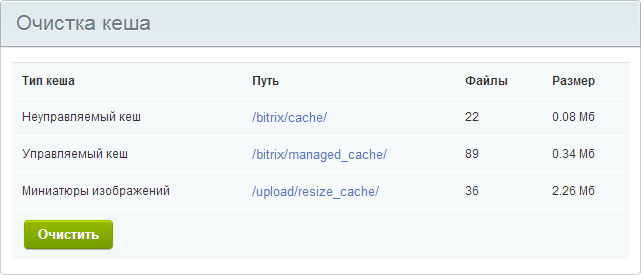
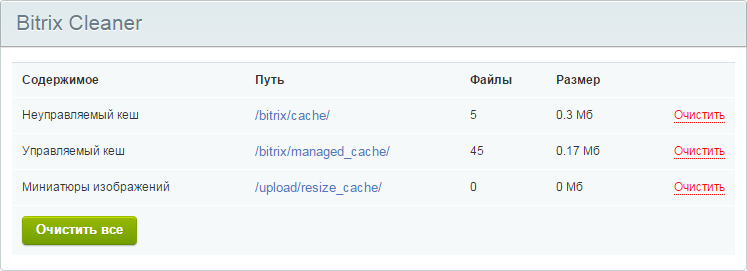
Вторая версия
Ajax, очистка отдельных директорий

diff --git a/cleaner/index.php b/cleaner/index.php
@@ -1,85 +1,40 @@
 <?
 	/*
-		BitrixCacheCleaner v1.3 - https://github.com/creadome/BitrixCacheCleaner
-		Быстрая очистка кеша 1С-Битрикс 		 				
+		Bitrix Cleaner v2.1 - https://github.com/creadome/bitrixcleaner
+		Быстрая очистка 1С-Битрикс 		 				
 
-		(c) 2013 Станислав Васильев - http://creado.me
-		creadome@gmail.com		
+		(c) 2015 Станислав Васильев - http://creado.me
+		creadome@gmail.com
 	*/
 
-	if (!defined("B_PROLOG_INCLUDED") || B_PROLOG_INCLUDED !== true) die();
-	
-	$cache = array(		
-		'Неуправляемый кеш' => '/bitrix/cache/',
-		'Управляемый кеш' => '/bitrix/managed_cache/',
-		'Миниатюры изображений' => '/upload/resize_cache/'
-	);
-	
-	if ($_POST['cache']['clear']) {		
-		foreach ($cache as $dir) DeleteDirFilesEx($dir);	
-				
-		header ('Location: /bitrix/admin/');
-		exit;
-	}
-		
-	function info($dir) {
-		$info = array('count' => 0, 'size' => 0);
-		
-		foreach (scandir($dir) as $file) {
-			if ($file != '.' && $file != '..') {
-				if (is_dir($dir.'/'.$file)) { 
-					$tmp = info($dir.'/'.$file); 
+	if (!defined('B_PROLOG_INCLUDED') || B_PROLOG_INCLUDED !== true) die();
 
-					$info['count'] += $tmp['count']; 
-					$info['size'] += $tmp['size']; 
-				} else { 
-					$info['count']++;
-					$info['size'] += filesize($dir.'/'.$file); 
-				}
-			}
-		}
-		
-		return $info;	
-	}
+	CJSCore::Init('jquery');
 ?>
 
+<div id="bitrix-cleaner"></div>
+
 <style>
-	#gadget-cache { background: #f5f9f9; border-top: 1px solid #d7e0e8; }
-	#gadget-cache table { width: 100%; border-collapse: collapse; }
-	#gadget-cache table th,
-	#gadget-cache table td { vertical-align: top; text-align: left; padding: 10px; border-bottom: 1px solid #fff; }
-	#gadget-cache form { padding: 10px; }
+	#bitrix-cleaner { background: #f5f9f9; border-top: 1px solid #d7e0e8; }
+
+	#bitrix-cleaner table { width: 100%; border-collapse: collapse; }
+	#bitrix-cleaner th,
+	#bitrix-cleaner td { vertical-align: top; text-align: left; padding: 10px; border-bottom: 1px solid #fff; }
+
+	#bitrix-cleaner td.clean { text-align: right; }
+	#bitrix-cleaner td.clean span { color: #f00; border-bottom: 1px dotted #f00; cursor: pointer; }
+
+	#bitrix-cleaner input { margin: 10px; }
 </style>
 
-<div id="gadget-cache">
-	<table>
-		<tr>
-			<th>Тип кеша</th>
-			<th>Путь</th>
-			<th>Файлы</th>
-			<th>Размер</th>
-		</tr>
+<script>
+	var cleaner = '<?=$arGadget['PATH_SITEROOT']?>/cleaner.php';
 
-	<? 
-		foreach ($cache as $name => $dir) { 
-			$info = info($_SERVER['DOCUMENT_ROOT'].$dir);
-			$info['size'] = round($info['size'] / 1024 / 1024, 2);
-	?>	
+	$('#bitrix-cleaner').load(cleaner);
 
-		<tr>
-			<td><?=$name?></td>
-			<td><a href="/bitrix/admin/fileman_admin.php?lang=ru&path=<?=$dir?>"><?=$dir?></a></td>
-			<td><?=$info['count']?></td>
-			<td><?=$info['size']?> Мб</td>
-		</tr>
-
-	<? 
-		} 
-	?>
-
-	</table>
-
-	<form method="post" action="">	
-		<input type="submit" name="cache[clear]" value="Очистить" class="adm-btn-save">		
-	</form>
-</div>
+	$(document).on('click', '#bitrix-cleaner .action-clean', function(){
+		$.get(cleaner, {clean: $(this).data('clean')}, function(data){
+			$('#bitrix-cleaner').html(data);
+		});
+	});
+</script>

diff --git a/cleaner/cleaner.php b/cleaner/cleaner.php
@@ -1,0 +1,80 @@
+<?
+	/*
+		Bitrix Cleaner v2.1 - https://github.com/creadome/bitrixcleaner
+		Быстрая очистка 1С-Битрикс 		 				
+
+		(c) 2015 Станислав Васильев - http://creado.me
+		creadome@gmail.com
+	*/
+
+	require($_SERVER['DOCUMENT_ROOT'].'/bitrix/modules/main/include/prolog_before.php');
+	
+	if ($USER->IsAdmin()) {
+		$list = array(
+			'/bitrix/cache/' => 'Неуправляемый кеш',
+			'/bitrix/managed_cache/' => 'Управляемый кеш',
+			'/upload/resize_cache/' => 'Миниатюры изображений'
+		);
+
+		if ($clean = $_GET['clean']) {
+			if ($clean == 'all') { foreach ($list as $directory => $content) DeleteDirFilesEx($directory); } 
+			else { if ($list[$clean]) DeleteDirFilesEx($clean); }
+		}
+				
+		function countsize($directory) {		
+			$count = array('file' => 0, 'size' => 0);
+		
+			foreach (scandir($directory) as $file) {
+				if ($file != '.' && $file != '..') {
+					if (is_dir($directory.$file)) {
+						$inner = countsize($directory.$file.'/');
+
+						$count['file'] += $inner['file']; 
+						$count['size'] += $inner['size']; 
+					} else {
+						$count['file'] ++;
+						$count['size'] += filesize($directory.$file); 
+					}
+				}
+			}
+			
+			return $count;	
+		}
+?>
+
+	<table>
+		<tr>
+			<th>Содержимое</th>
+			<th>Путь</th>
+			<th>Файлы</th>
+			<th>Размер</th>
+			<th></th>
+		</tr>
+
+		<? 
+			foreach ($list as $directory => $content) { 
+				$count = countsize($_SERVER['DOCUMENT_ROOT'].$directory);
+				$count['size'] = round($count['size'] / 1048576, 2);
+		?>	
+
+			<tr>
+				<td><?=$content?></td>
+				<td><a href="/bitrix/admin/fileman_admin.php?lang=ru&amp;path=<?=$directory?>"><?=$directory?></a></td>
+				<td><?=$count['file']?></td>
+				<td><?=$count['size']?> Мб</td>
+
+				<td class="clean">
+					<span class="action-clean" data-clean="<?=$directory?>">Очистить</span>
+				</td>
+			</tr>
+
+		<?
+			} 
+		?>
+	</table>
+
+	<input type="button" value="Очистить все" class="adm-btn-save action-clean" data-clean="all">
+
+<?
+	}
+?>

diff --git a/cleaner/.description.php b/cleaner/.description.php
@@ -1,17 +1,17 @@
 <?
 	/*
-		BitrixCacheCleaner v1.3 - https://github.com/creadome/BitrixCacheCleaner
-		Быстрая очистка кеша 1С-Битрикс 		 				
+		Bitrix Cleaner v2.1 - https://github.com/creadome/BitrixCleaner
+		Быстрая очистка 1С-Битрикс 		 				
 
-		(c) 2013 Станислав Васильев - http://creado.me
+		(c) 2015 Станислав Васильев - http://creado.me
 		creadome@gmail.com		
 	*/
 
 	if (!defined("B_PROLOG_INCLUDED") || B_PROLOG_INCLUDED !== true) die();
 	
 	$arDescription = array(
-		"NAME" => "Очистка кеша",
-		"DESCRIPTION" => "Удаление кеша и миниатюр изображений",
+		"NAME" => "Bitrix Cleaner",
+		"DESCRIPTION" => "Быстрое удаление кеша и миниатюр изображений",
 		"GROUP" => array("ID" => "admin_content"),		
 		"AI" => true	
 	);

diff --git a/README.md b/README.md
@@ -1,7 +1,7 @@
-BitrixCacheCleaner
-==================
+Bitrix Cleaner
+==============
 
-![Панель управления](https://raw.github.com/creadome/BitrixCacheCleaner/master/cleaner.png)
+![Панель управления](https://raw.github.com/creadome/bitrixcleaner/master/cleaner.png)
 
 Гаджет для панели управления 1С-Битрикс, позволяющий быстро очистить неуправляемый кеш, управляемый и миниатюры изображений ([CFile::ResizeImageGet](http://dev.1c-bitrix.ru/api_help/main/reference/cfile/resizeimageget.php)).
 
@@ -13,6 +13,5 @@ BitrixCacheCleaner
 ---------
 
 1. Создайте свое пространство имен для гаджетов, например `/bitrix/gadgets/tools/`;
-2. Создайте внутри директорию для нового гаджета, например `cache`;
-3. Скопируйте в `/bitrix/gadgets/tools/cache/` файлы `gadget/.description.php` и `gadget/index.php`;
-4. В панели управления добавьте на рабочий стол гаджет "Очистка кеша" (Добавить гаджет / Контент / Очистка кеша);
+2. Скопируйте папку `cleaner` в `/bitrix/gadgets/tools/`;
+3. В панели управления добавьте на рабочий стол гаджет "Bitrix Cleaner" (Добавить гаджет / Контент / Bitrix Cleaner);
